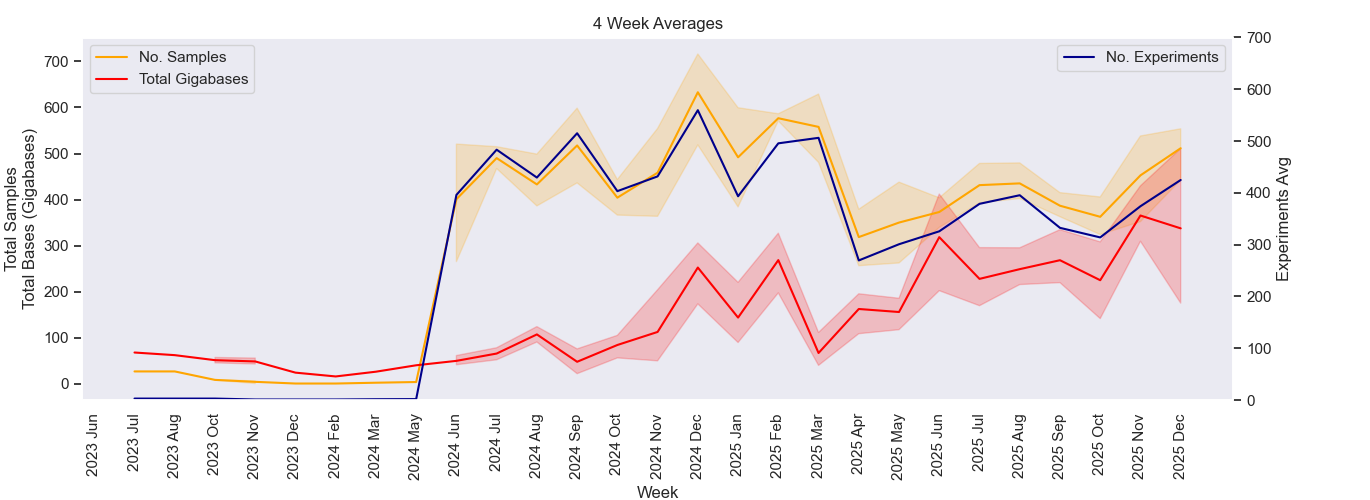
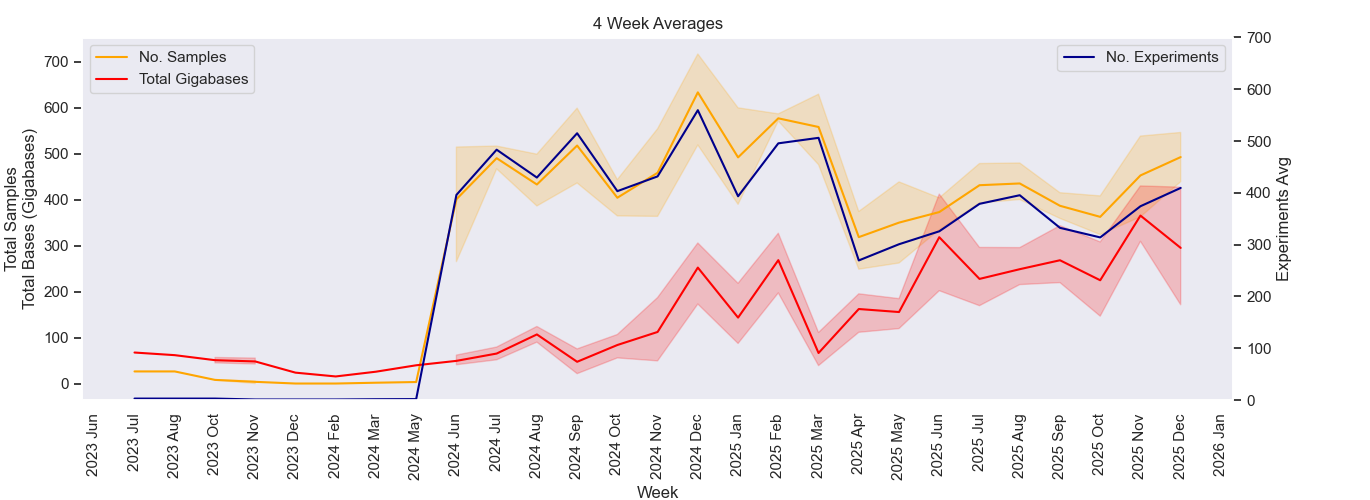
Your commit message here

diff --git a/krona/cgs.html b/krona/cgs.html
@@ -52,5 +52,8 @@ body {
   flex-direction: column;
 }
 </style>
-<H1>Genomics Facility Status: 07:00:09, 13/01/2026</H1>
-<marquee behavior="scroll" scrollamount="20" direction="left" bgcolor="lightgrey">ACCATTATCGAACTCAACGCCCTGCATACGAAACGCCAGAATCTCTTCCAAGAGCTTGATGCGGTTATCCATCTGCTTATGGAAGCCAAGCATTGGGGATTGAGAAAGAGTAGAAATGCCACAAGCCTCAATAGCAGGTTTAAGAGCCTCGATACGCTCAAAGTCAAAATAATCAGCGTGACATTCAGAAGGGTAATAAGAACGAACCATAAAAAAGCCTCCAAGATTTGGAGGCATGAAAACATACAATT</marquee>
+<H1>Genomics Facility Status: 07:00:07, 14/01/2026</H1>
+<marquee behavior="scroll" scrollamount="20" direction="left" bgcolor="lightgrey">GGAGTCTACTGCTCGCGTTGCGTCTATTATGGAAAACACCAATCTTTCCAAGCAACAGCAGGTTTCCGAGATTATGCGCCAAATGCTTACTCAAGCTCAAACGGCTGGTCAGTATTTTACCAATGACCAAATCAAAGAAATGACTCGCAAGGTTAGTGCTGAGGTTGACTTAGTTCATCAGCAAACGCAGAATCAGCGGTATGGCTCTTCTCATATTGGCGCTACTGCAAAGGATATTTCTAATGTCGTC</marquee>
+<TABLE BORDER=0><TR><TD><TABLE class="styled-table"><H3>GigaBases Sequenced</H3>
+<TR><TD><b>Platform</b></TD><TD><b>Week</b></TD><TD><b>Month</b></TD><TD><b>Year</b></TD><TD><b>Total</b></TD></TR><TR><TD>Illumina MiSeq</TD><TD>4.71</TD><TD>20.07</TD><TD>344.54</TD><TD>422.85</TD></TR><TR><TD>Illumina NextSeq</TD><TD>13.87</TD><TD>114.2</TD><TD>5457.91</TD><TD>6013.94</TD></TR><TR><TD>Nanopore PromethION</TD><TD>0.0</TD><TD>0.02</TD><TD>7023.87</TD><TD>10521.51</TD></TR><TR><TD>Sanger</TD><TD>0.0</TD><TD>0.0</TD><TD>0.02</TD><TD>0.04</TD></TR></TABLE></TD><TD><IMG SRC="fig1.png"><IMG SRC="fig2.png"></TD></TR><TR><TD><H3>No. Samples (No. Experiments)</H3>
+<TABLE class="styled-table"><TR><TD><b>Platform</b></TD><TD><b>Week</b></TD><TD><b>Month</b></TD><TD><b>Year</b></TD><TD><b>Total</b></TD></TR><TR><TD>Illumina MiSeq</TD><TD>36 (1)</TD><TD>146 (4)</TD><TD>1542 (65)</TD><TD>1965 (76)</TD></TR><TR><TD>Illumina NextSeq</TD><TD>59 (1)</TD><TD>71 (2)</TD><TD>1716 (69)</TD><TD>1877 (75)</TD></TR><TR><TD>Nanopore PromethION</TD><TD>0 (0)</TD><TD>1 (1)</TD><TD>458 (152)</TD><TD>797 (273)</TD></TR><TR><TD>Sanger</TD><TD>384 (384)</TD><TD>864 (864)</TD><TD>20640 (20640)</TD><TD>36743 (36743)</TD></TR></TABLE></TD><TD><IMG SRC="fig4.png"></TD></TR></TABLE></HTML>
